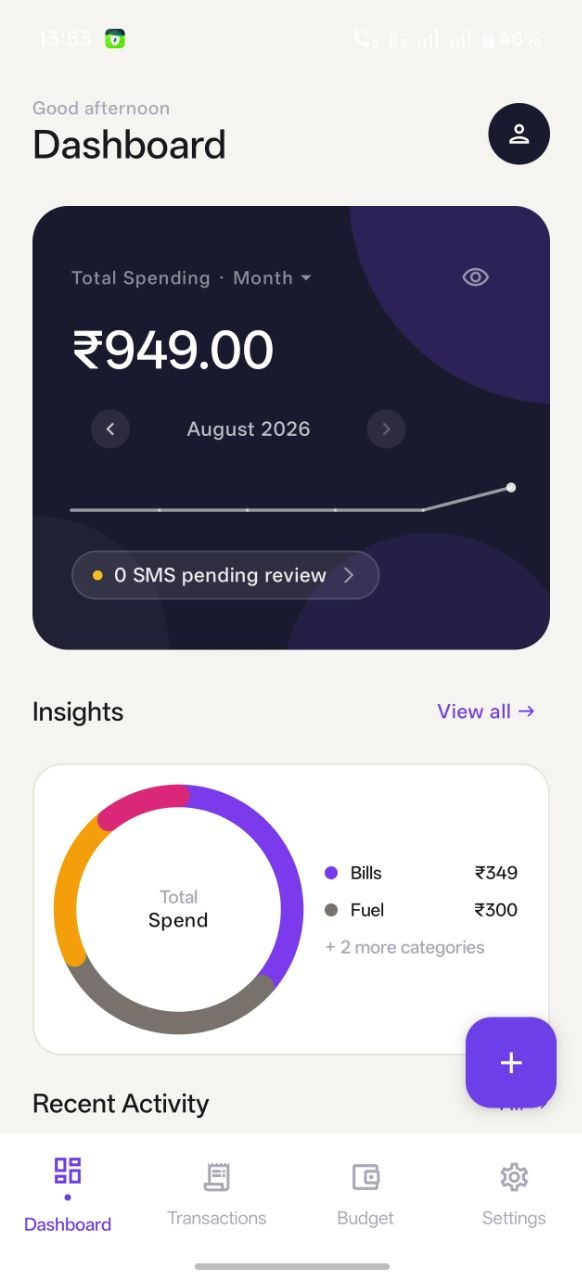
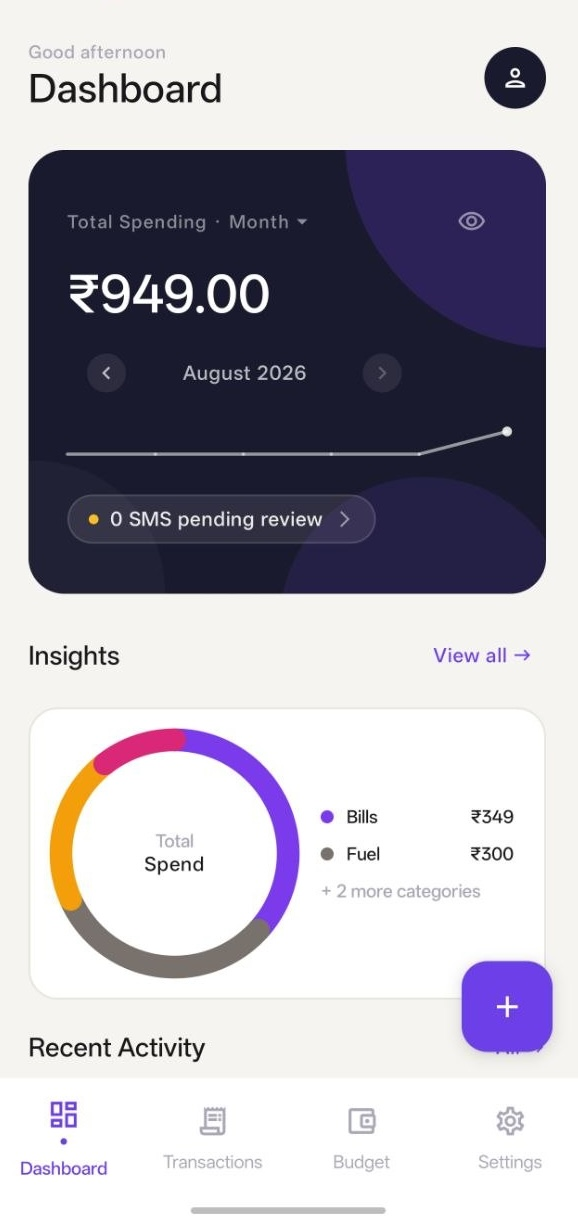
Add mobile-responsive nav and cropped screenshots without status bar

diff --git a/index.html b/index.html
@@ -253,18 +253,30 @@ a:hover{color:var(--color-accent)}
 .email-form{display:flex;gap:12px;align-items:stretch;max-width:420px;flex:1;min-width:280px}
 .email-form input{flex:1;min-height:36px}
 .email-form button{min-height:36px}
+.nav-toggle-checkbox{display:none}
+.nav-toggle-label{display:none;cursor:pointer;font-size:24px;line-height:1;padding:4px;color:var(--color-text)}
+.nav-links{display:flex;align-items:center;gap:28px}
 @media (max-width:720px){.split{grid-template-columns:1fr!important}.split-fig{order:-1;justify-self:start!important}}
 @media (max-width:880px){.feat-row{grid-template-columns:1fr!important}}
 @media (max-width:600px){.stat-grid{grid-template-columns:repeat(2,1fr)!important}}
+@media (max-width:680px){
+  .nav-toggle-label{display:block}
+  .nav-links{display:none;position:absolute;top:100%;left:0;right:0;flex-direction:column;align-items:flex-start;gap:16px;background:var(--color-bg);padding:20px clamp(20px,5vw,72px) 28px;box-shadow:var(--shadow-md);z-index:20}
+  .nav-toggle-checkbox:checked ~ .nav-links{display:flex}
+  .nav-links .btn{width:100%}
+  h1{font-size:clamp(32px,9vw,44px)!important;line-height:1.2!important}
+}
 </style>
 </helmet>
 
-<nav class="nav" style="display:flex;align-items:center;justify-content:space-between;gap:24px;padding:20px clamp(20px,5vw,72px)">
+<nav class="nav" style="position:relative;display:flex;align-items:center;justify-content:space-between;gap:24px;padding:20px clamp(20px,5vw,72px)">
   <div style="display:flex;align-items:center;gap:10px">
     <img src="ref/icon.png" alt="" style="width:30px;height:30px;object-fit:contain;border-radius:10px"/>
     <span class="nav-brand">Thrift</span>
   </div>
-  <div style="display:flex;align-items:center;gap:28px">
+  <input type="checkbox" id="nav-toggle" class="nav-toggle-checkbox">
+  <label for="nav-toggle" class="nav-toggle-label" aria-label="Menu">&#9776;</label>
+  <div class="nav-links">
     <a href="index.html" style="font-size:15px;font-weight:600">Home</a>
     <a href="Features.html" style="font-size:15px;color:var(--color-text)">Features</a>
     <a href="Privacy.html" style="font-size:15px;color:var(--color-text)">Privacy</a>

diff --git a/Features.html b/Features.html
@@ -253,16 +253,28 @@ a:hover{color:var(--color-accent)}
 .email-form{display:flex;gap:12px;align-items:stretch;max-width:420px}
 .email-form input{flex:1;min-height:36px}
 .email-form button{min-height:36px}
+.nav-toggle-checkbox{display:none}
+.nav-toggle-label{display:none;cursor:pointer;font-size:24px;line-height:1;padding:4px;color:var(--color-text)}
+.nav-links{display:flex;align-items:center;gap:28px}
 @media (max-width:880px){.fb{grid-template-columns:1fr!important}.fb-fig{order:-1;justify-self:start!important}}
+@media (max-width:680px){
+  .nav-toggle-label{display:block}
+  .nav-links{display:none;position:absolute;top:100%;left:0;right:0;flex-direction:column;align-items:flex-start;gap:16px;background:var(--color-bg);padding:20px clamp(20px,5vw,72px) 28px;box-shadow:var(--shadow-md);z-index:20}
+  .nav-toggle-checkbox:checked ~ .nav-links{display:flex}
+  .nav-links .btn{width:100%}
+  h1{font-size:clamp(30px,8vw,40px)!important}
+}
 </style>
 </helmet>
 
-<nav class="nav" style="display:flex;align-items:center;justify-content:space-between;gap:24px;padding:20px clamp(20px,5vw,72px)">
+<nav class="nav" style="position:relative;display:flex;align-items:center;justify-content:space-between;gap:24px;padding:20px clamp(20px,5vw,72px)">
   <div style="display:flex;align-items:center;gap:10px">
     <img src="ref/icon.png" alt="" style="width:30px;height:30px;object-fit:contain;border-radius:10px"/>
     <span class="nav-brand">Thrift</span>
   </div>
-  <div style="display:flex;align-items:center;gap:28px">
+  <input type="checkbox" id="nav-toggle" class="nav-toggle-checkbox">
+  <label for="nav-toggle" class="nav-toggle-label" aria-label="Menu">&#9776;</label>
+  <div class="nav-links">
     <a href="index.html" style="font-size:15px;color:var(--color-text)">Home</a>
     <a href="Features.html" style="font-size:15px;font-weight:600">Features</a>
     <a href="Privacy.html" style="font-size:15px;color:var(--color-text)">Privacy</a>

diff --git a/Privacy.html b/Privacy.html
@@ -249,15 +249,26 @@ textarea.input { min-height: 90px; resize: vertical; }
 body{margin:0}
 a{color:var(--color-accent-700);text-decoration:none}
 a:hover{color:var(--color-accent)}
+.nav-toggle-checkbox{display:none}
+.nav-toggle-label{display:none;cursor:pointer;font-size:24px;line-height:1;padding:4px;color:var(--color-text)}
+.nav-links{display:flex;align-items:center;gap:28px}
+@media (max-width:680px){
+  .nav-toggle-label{display:block}
+  .nav-links{display:none;position:absolute;top:100%;left:0;right:0;flex-direction:column;align-items:flex-start;gap:16px;background:var(--color-bg);padding:20px clamp(20px,5vw,72px) 28px;box-shadow:var(--shadow-md);z-index:20}
+  .nav-toggle-checkbox:checked ~ .nav-links{display:flex}
+  h1{font-size:clamp(28px,8vw,36px)!important}
+}
 </style>
 </helmet>
 
-<nav class="nav" style="display:flex;align-items:center;justify-content:space-between;gap:24px;padding:20px clamp(20px,5vw,72px)">
+<nav class="nav" style="position:relative;display:flex;align-items:center;justify-content:space-between;gap:24px;padding:20px clamp(20px,5vw,72px)">
   <div style="display:flex;align-items:center;gap:10px">
     <img src="ref/icon.png" alt="" style="width:30px;height:30px;object-fit:contain;border-radius:10px"/>
     <span class="nav-brand">Thrift</span>
   </div>
-  <div style="display:flex;align-items:center;gap:28px">
+  <input type="checkbox" id="nav-toggle" class="nav-toggle-checkbox">
+  <label for="nav-toggle" class="nav-toggle-label" aria-label="Menu">&#9776;</label>
+  <div class="nav-links">
     <a href="index.html" style="font-size:15px;color:var(--color-text)">Home</a>
     <a href="Features.html" style="font-size:15px;color:var(--color-text)">Features</a>
     <a href="Privacy.html" style="font-size:15px;font-weight:600">Privacy</a>
